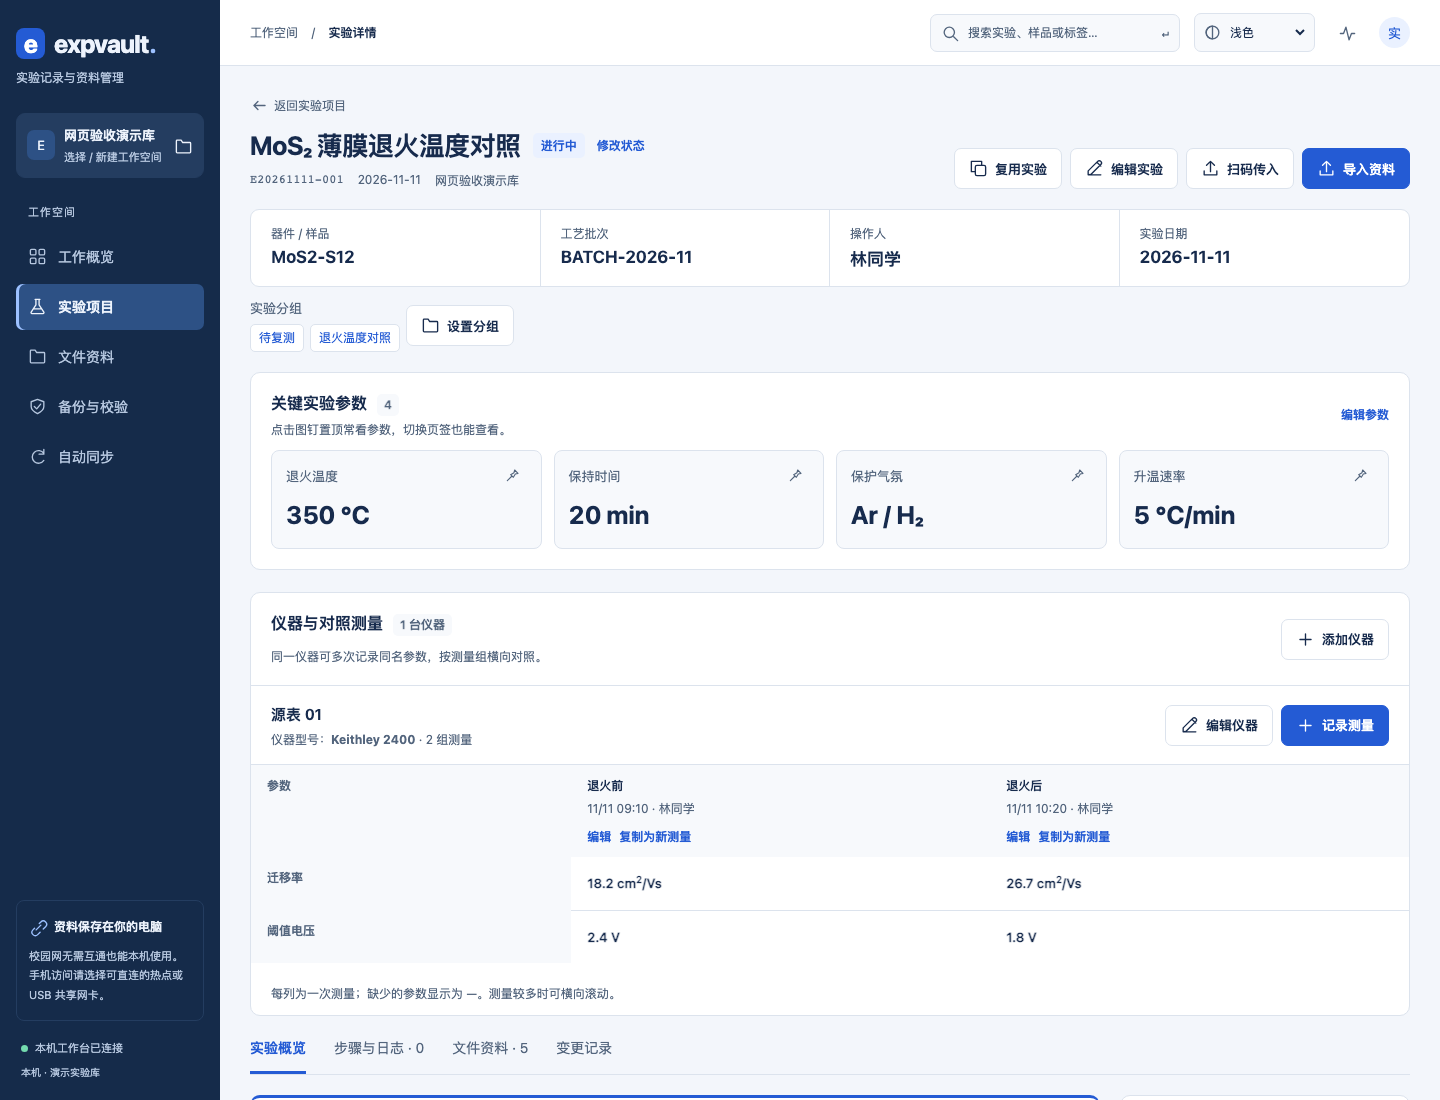
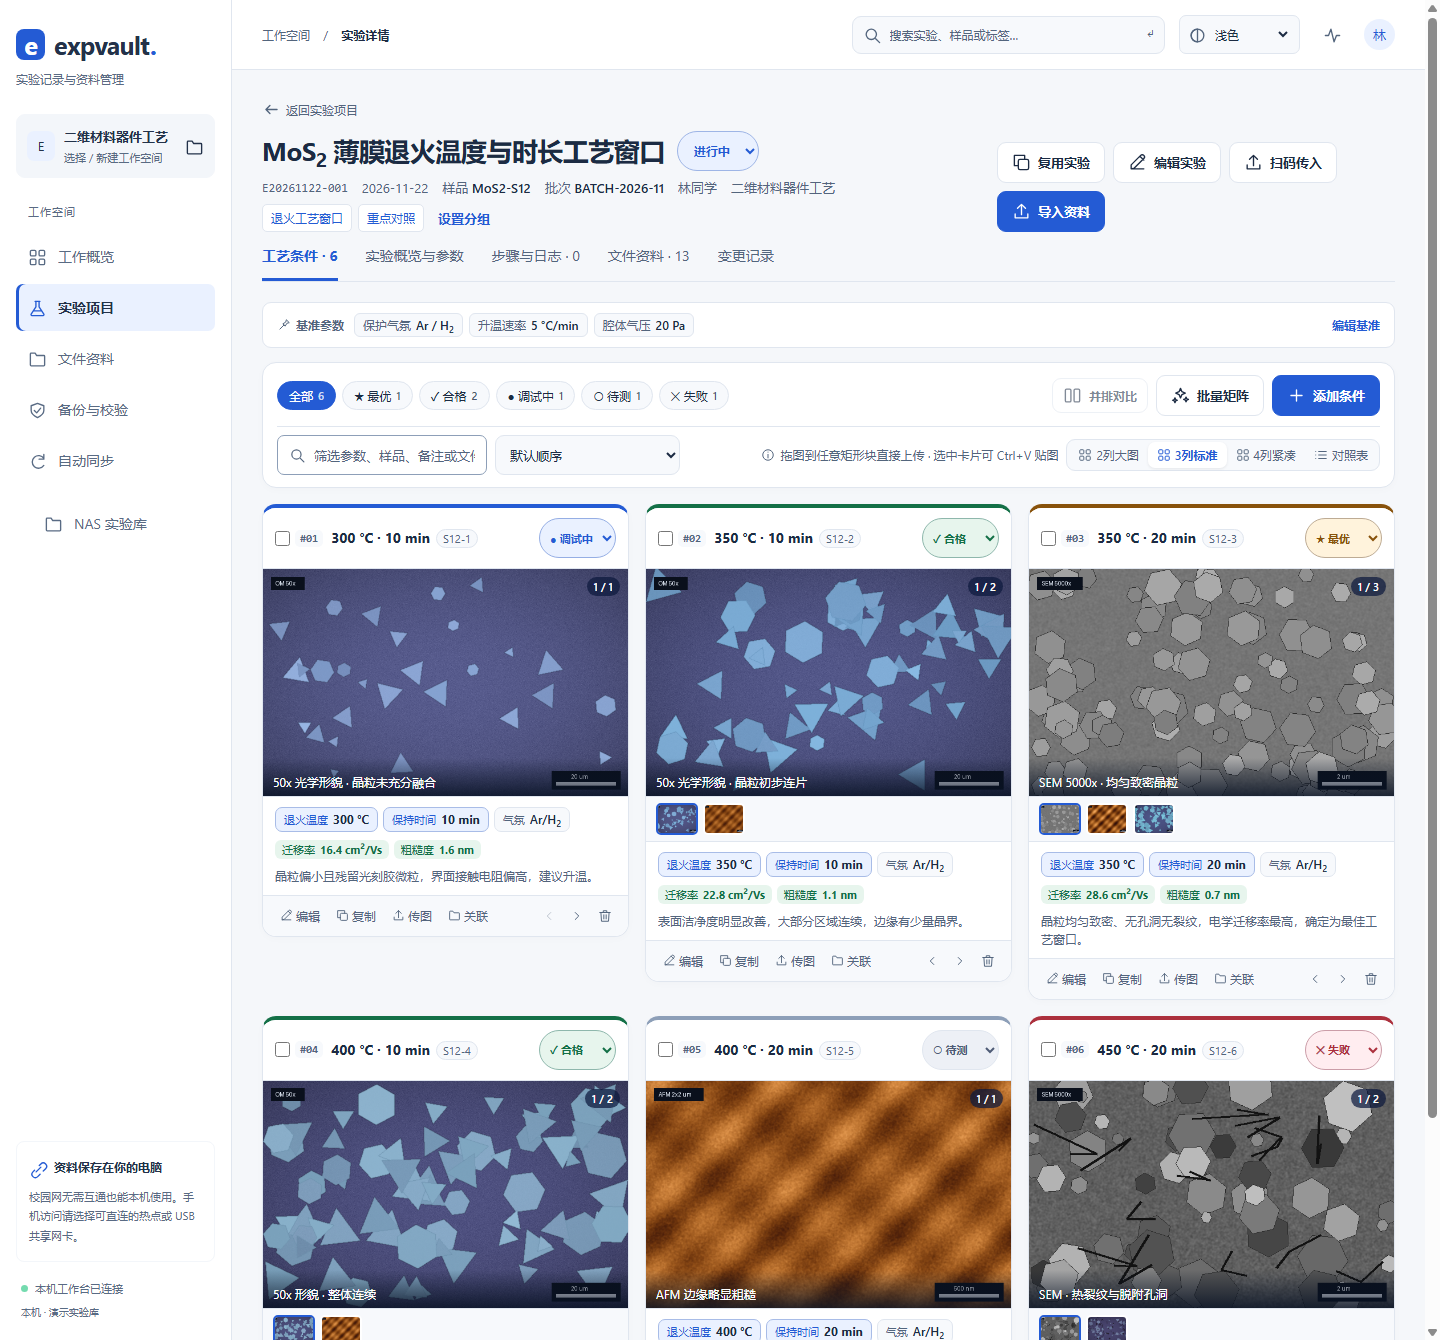
docs: update README, screenshots and manifest for v1.9.5

diff --git a/README.md b/README.md
@@ -4,9 +4,9 @@
 
 **支持 Mac 和 Windows，主要在浏览器中操作。** 数据保存在自己的电脑；首次装好依赖后，本机日常使用无需外网。
 
-[开始使用](#第一次使用先做这-4-步) · [导入手机和-u-盘资料](#导入手机和-u-盘资料) · [NAS 实验库](#实验库放在-nas其他电脑直接查看) · [两台电脑同步](#两台电脑如何同步) · [数据与备份](#数据存在哪里怎样换电脑) · [常见问题](#遇到问题先看这里)
+[开始使用](#第一次使用先做这-4-步) · [工艺条件矩阵与并排对比](#同一实验内管理多组工艺条件与实拍图) · [导入手机和-u-盘资料](#导入手机和-u-盘资料) · [NAS 实验库](#实验库放在-nas其他电脑直接查看) · [两台电脑同步](#两台电脑如何同步) · [数据与备份](#数据存在哪里怎样换电脑) · [常见问题](#遇到问题先看这里)
 
-![实验工作台：紧凑的进行中实验卡片、样品编号与关键参数](docs/screenshots/overview.png)
+![实验工作台：进行中实验卡片直接展示工艺条件数量、最优条件与关键参数](docs/screenshots/overview.png)
 
 *截图使用临时演示数据；给其他电脑的独立发布包不含实验记录、个人配置或运行依赖。*
 
@@ -20,7 +20,7 @@ Windows 安装时勾选 **Add Python to PATH**，并保留 Python Launcher。无
 
 ### 2. 解压程序
 
-下载 [expvault-lab-manager-1.9.4.zip](https://github.com/simcrq/expvault-lab-manager/releases/download/v1.9.4/expvault-lab-manager-1.9.4.zip)，然后**完整解压**到可写文件夹，例如桌面或个人文档目录。不要在 ZIP 中直接运行，不要放入 Windows 的 Program Files。
+下载 [expvault-lab-manager-1.9.5.zip](https://github.com/simcrq/expvault-lab-manager/releases/download/v1.9.5/expvault-lab-manager-1.9.5.zip)，然后**完整解压**到可写文件夹，例如桌面或个人文档目录。不要在 ZIP 中直接运行，不要放入 Windows 的 Program Files。
 
 如果拿到的是源码目录，也可以使用，启动文件与独立包有所不同：
 
@@ -52,23 +52,39 @@ Windows 安装时勾选 **Add Python to PATH**，并保留 Python Launcher。无
 
 | 你想做什么 | 在哪里操作 |
 | --- | --- |
-| 找到进行中的实验 | 「工作概览」的卡片；每页 12 个，可翻页 |
-| 看样品和关键条件 | 实验详情顶部；常看参数可点图钉置顶，参数和仪器对照区均可整块折叠隐藏 |
+| 找到进行中的实验 | 「工作概览」的卡片；直接展示工艺条件数、最优条件与关键参数，每页 12 个 |
+| 记录多组工艺参数与实拍图 | 打开实验默认进入「工艺条件」矩形块网格：直接拖图或 `Ctrl+V` 贴图到对应参数块 |
+| 并排对比不同参数的图片 | 勾选 2–4 个工艺条件矩形块 → 点击「并排对比」，差异参数自动高亮 |
+| 看基准参数与仪器对照 | 「实验概览与参数」页签；常看参数可点图钉置顶，参数和仪器对照区均可折叠 |
 | 将一系列实验编组 | 「实验项目」勾选后「添加到分组」，或详情「设置分组」 |
 | 复制或批量生成相似实验 | 实验详情「复用实验」→「复制实验 / 按模板批量生成」 |
-| 修改“进行中 / 已完成” | 实验标题旁、列表或卡片上的「修改状态」 |
+| 修改“进行中 / 已完成” | 实验标题旁下拉一键直切，或在列表 / 卡片点击「修改状态」 |
 | 记操作步骤和现场观察 | 「步骤与日志」，可附图片并引用库里的文件 |
-| 比较同一仪器多轮测量 | 「仪器与对照测量」：记录仪器名称、型号和每次参数 |
-| 找原片或仪器数据 | 「文件资料」，按文件名 / 标签查找、预览和下载 |
+| 比较同一仪器多轮测量 | 「实验概览与参数」→「仪器与对照测量」：记录仪器名称、型号和每次参数 |
+| 找原片或仪器数据 | 「文件资料」，支持**缩略图网格 / 列表**切换、顶部拖拽直传、按标签查找与预览 |
 | 改文字格式 | 编辑器的上标、下标按钮；实验备注还支持加粗 |
 | 换颜色 | 右上角主题选择，支持浅色、深色、青竹、暖砂、雾紫、深海 |
 | 从 NAS 读取共享实验库 | 左侧「NAS 实验库」：一台编辑，其他电脑只读查看 |
-| 校验、备份和导出台账 | 「备份与校验」 |
+| 校验、备份和导出台账 | 「备份与校验」（Excel 台账自动导出「工艺条件矩阵」工作表） |
 
-![实验详情：关键条件集中展示，可查看仪器型号及多轮对照测量](docs/screenshots/experiment.png)
+## 同一实验内管理多组工艺条件与实拍图
+
+真实工艺实验往往需要在同一次实验下探索多组参数（如退火温度 × 时长、刻蚀功率、旋涂转速等）并对照每组参数下的显微 / SEM / AFM 图片。打开实验默认进入「**工艺条件**」工作台：
+
+- **矩形块排列与视图切换**：每个工艺条件显示为独立矩形块，支持切换 `2列大图`、`3列标准`、`4列紧凑` 和 `对照表`；自动识别并高亮各条件之间的**差异工艺参数**，可按状态筛选或按任意工艺参数的数值升/降序排列。
+- **拖拽与 `Ctrl+V` 零弹窗传图**：把本地图片或数据文件直接拖到任意条件矩形块上，或点击选中卡片后按 `Ctrl+V` 粘贴截图，系统会自动归档、计算 SHA256 并立即展示缩略图；也可从本实验资料库直接关联已有文件。
+- **批量矩阵与一键复制参数**：点击「批量矩阵」可在当前实验内按参数组合一次生成最多 60 组条件块；单张卡片点击「复制」可直接复用参数键值、微调单个变量快速新建下一组。
+- **一键标记评估状态**：每张卡片右上角可直接切换「待测 / 调试中 / 合格 / ★最优 / 失败」，顶部色条同步标识，首页卡片也会直接突出显示 `★ 最优` 条件。
+- **增强图片灯箱**：点击任意卡片主图放大查看，支持键盘 `←` / `→` 切图、`Z` 键缩放、开启「**跨条件连播**」连续对比不同参数下的图像，并可随时编辑图片说明或设为封面图。
+
+![实验详情：同一实验内的工艺条件矩形块网格，自动高亮差异参数并直接展示多张实拍图与评估状态](docs/screenshots/experiment.png)
+
+勾选 2–4 个工艺条件矩形块并点击「**并排对比**」，可在同一视图中对照参数差异与实拍大图，快速锁定最佳工艺窗口：
+
+![工艺条件并排对比：顶部高亮差异工艺参数与结果指标，下方并排对照各条件实拍图与观察备注](docs/screenshots/conditions-compare.png)
 
 例如材料名可输入 `MoS_{2}`，单位可输入 `cm^{-2}`；备注可用 `**需要复测**` 加粗。界面会显示相应格式，原始文字也会保存。
-引用文件时选择库中的来源，不必反复复制同一张照片；仍被步骤或日志引用的资料会受到删除保护。
+引用文件时选择库中的来源，不必反复复制同一张照片；仍被步骤、日志或工艺条件关联的资料会受到删除保护。
 
 ## 类似实验，不必从头填写
 

diff --git a/docs/web.md b/docs/web.md
@@ -359,6 +359,16 @@ HTTP 和桌面 / 手机浏览器验收包含新增仪器、记录 / 复制 / 编
 一个实验可有多个组，最多 20 个。新建、编辑、复制和批量生成窗口都可设置分组，分组随实验同步、备份和导出。
 操作仅影响当前工作空间，解散分组保留实验与文件。详见 [实验编组指南](groups.md)。
 
+## 工艺条件矩阵与快捷交互
+
+打开实验详情默认进入「**工艺条件**」页签，可在同一实验内管理最多 100 组工艺条件（保存在 `meta.json.process_conditions`）：
+
+- **矩形块排列**：支持切换 `2列大图`、`3列标准`、`4列紧凑` 和 `对照表`；系统自动识别不同条件间的差异工艺参数并高亮显示，支持按评估状态（待测 / 调试中 / 合格 / 最优 / 失败）筛选及按任意参数数值升/降序排列。
+- **拖拽与剪贴板贴图**：将本地图片或数据文件直接拖到任意条件矩形块上，或点击选中卡片后按 `Ctrl+V` 粘贴截图，自动归档至 `04_notes/conditions/` 或 `01_raw/conditions/`、计算 SHA256 并打上条件标签；也可点击「关联」直接引用本实验已有资料而不重复复制。
+- **批量矩阵与复制**：支持在当前实验内按参数维度一次生成最多 60 组条件块，也可点击卡片「复制」沿用参数快速微调新建。
+- **并排对比与增强灯箱**：勾选 2–4 个条件矩形块点击「并排对比」，同屏查看参数差异表与实拍大图；点击单张图片进入灯箱，支持 `←` / `→` 切图、`Z` 键缩放、跨条件连播、编辑说明和设为封面图。
+- **快捷状态与文件网格**：实验详情标题旁和每张条件卡片右上角均可下拉直接修改状态；「文件资料」支持缩略图网格 / 列表切换与顶部一键拖拽上传；被工艺条件关联的文件同样受到删除保护，并在 README、HTML 看板、Excel 台账（「工艺条件矩阵」工作表）及双向同步中保留。
+
 ## 直接使用 NAS 实验库
 
 左侧「NAS 实验库」可以连接系统已挂载的共享目录，并保存当前电脑的连接路径。
